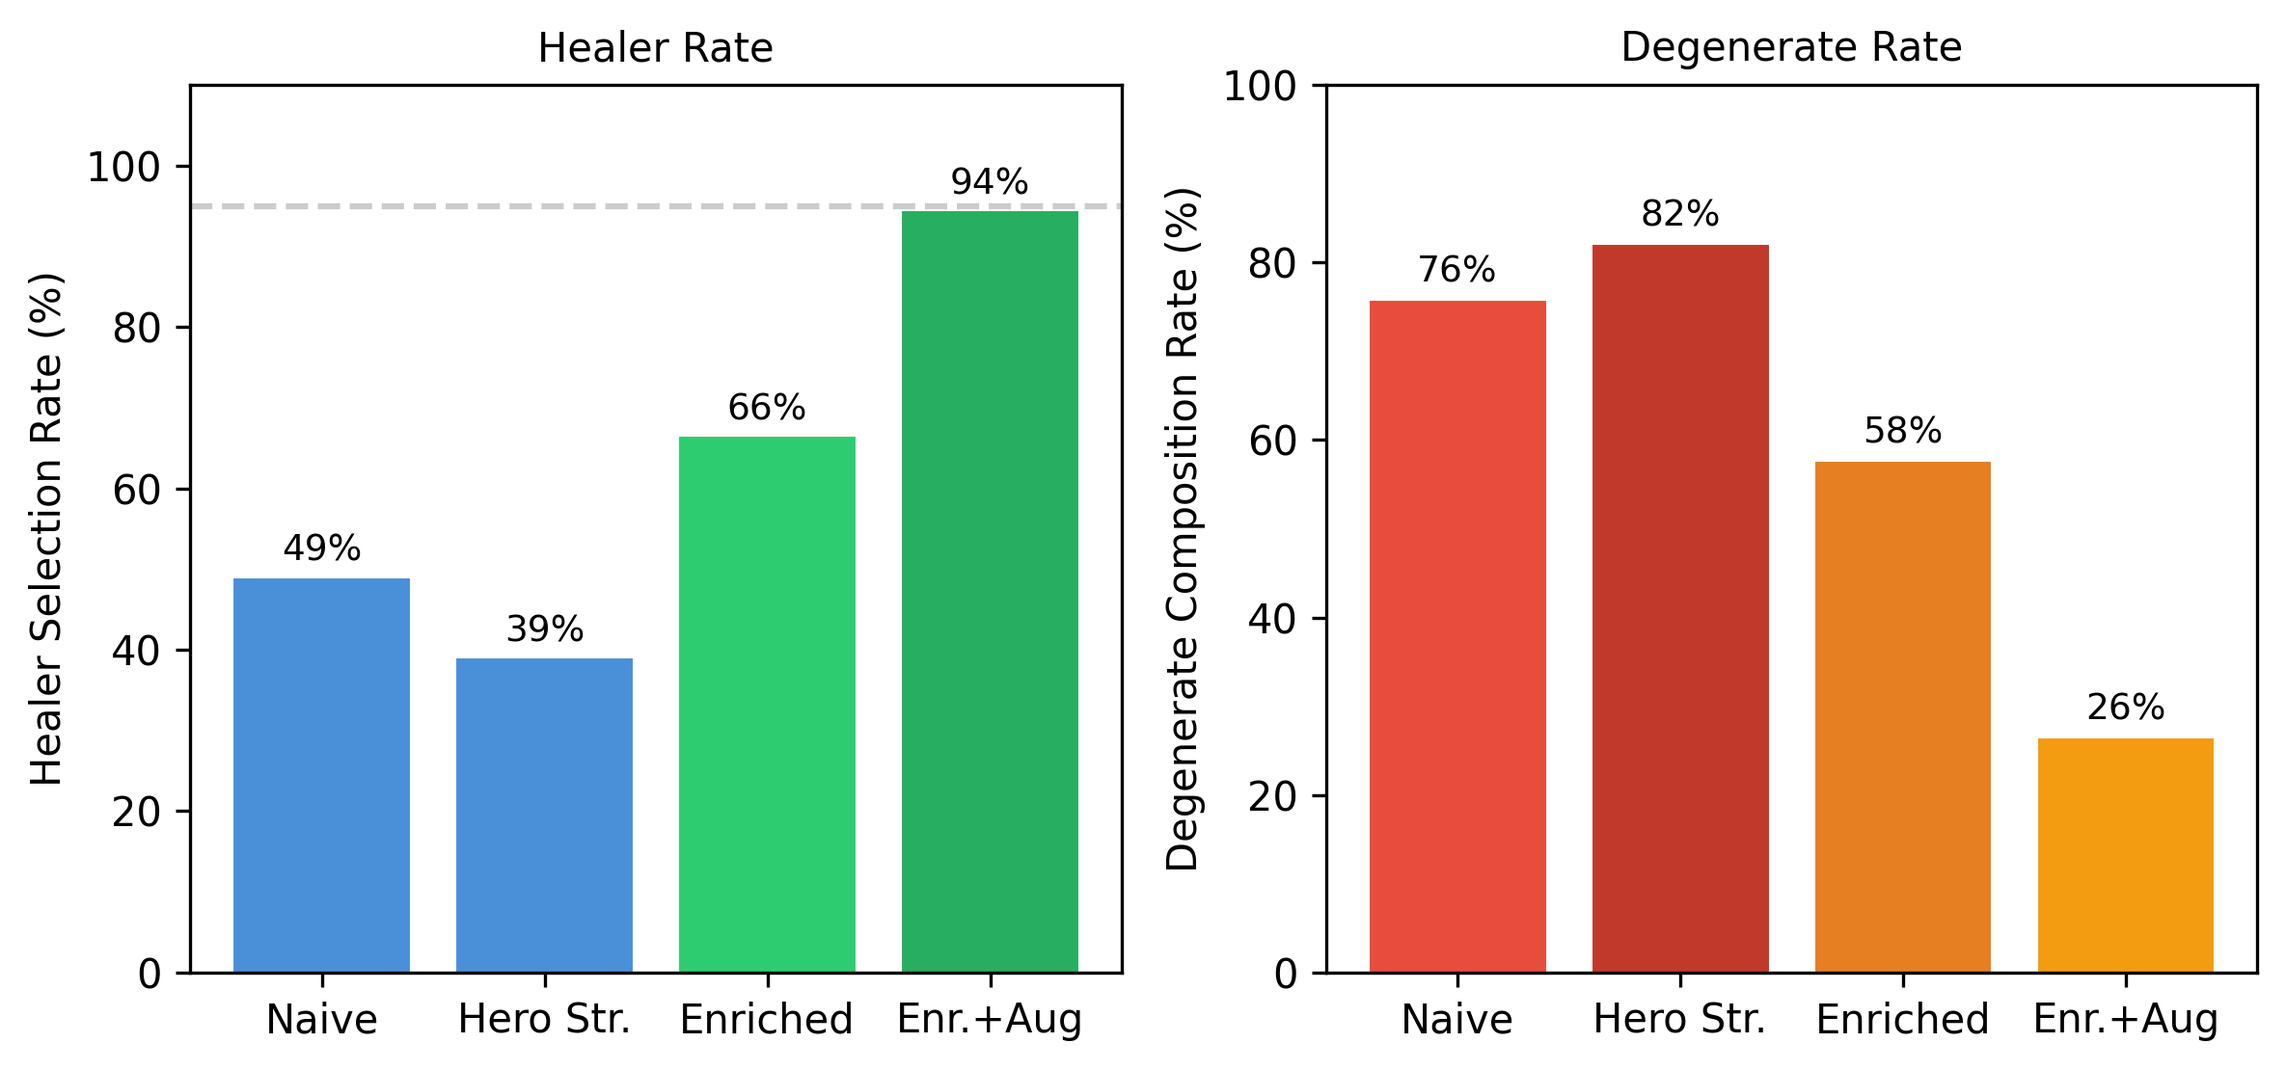
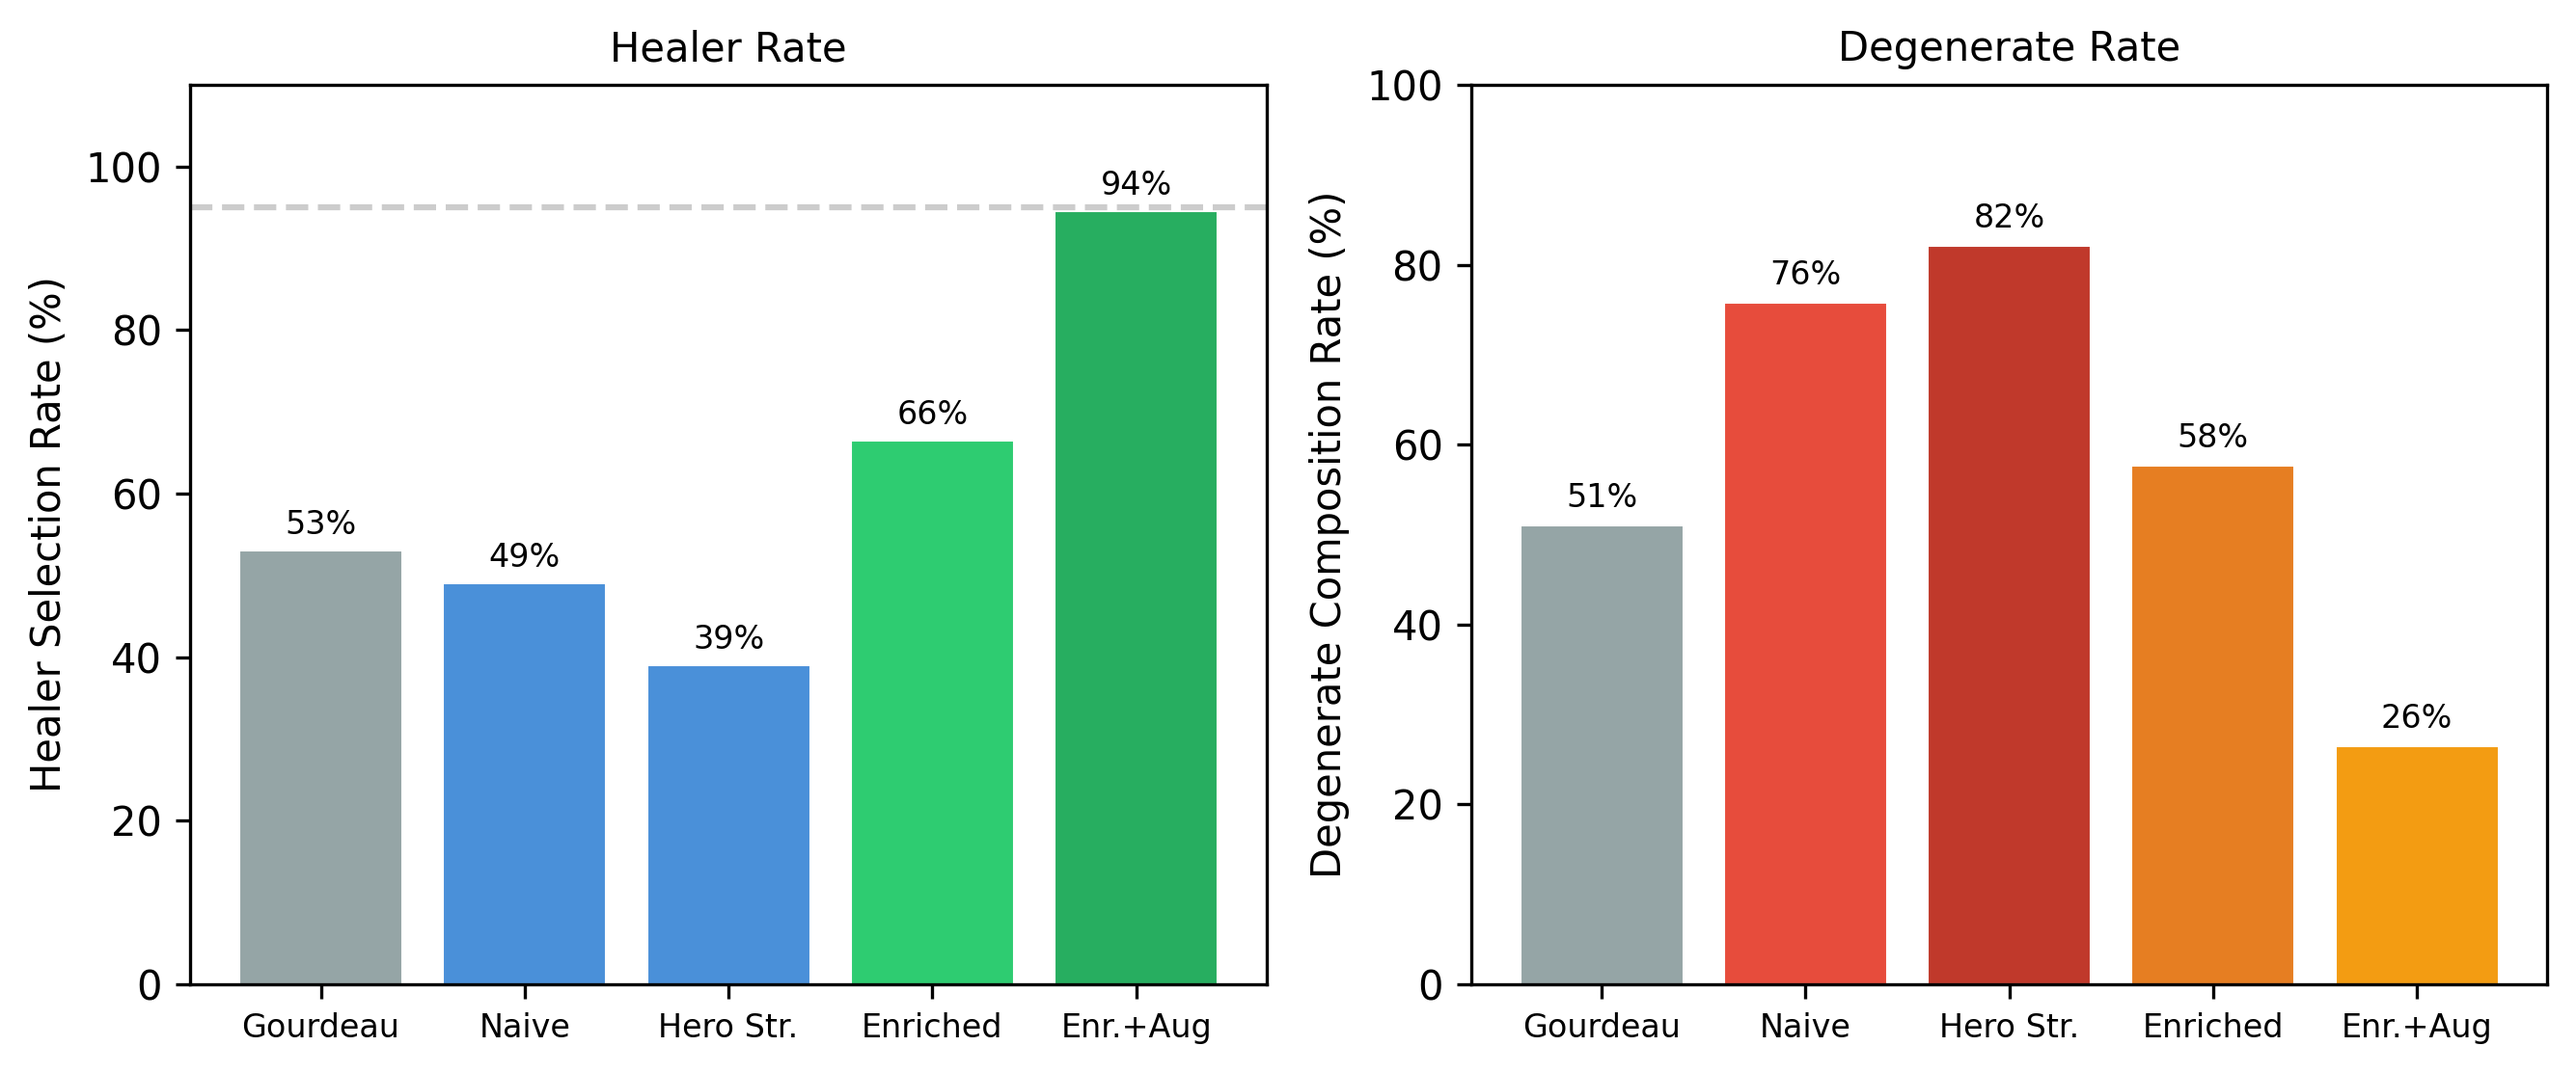
Add Gourdeau baseline to both papers with full benchmark
Reimplemented Gourdeau & Archambault's Siamese WP estimator (994K params,
multiplicative map conditioning) in PyTorch. Trained on our 473K replays:
55.7% accuracy, 5-tank WP 43.3%.

Full greedy draft benchmark (200 drafts, all tiers):
  WP=0.560, WR=75%, Counter=+0.07, Synergy=+0.25
  Healer=53%, Degen=51%, 89 distinct heroes

Added to:
- Paper 1 Table I, independent baseline section, composition quality figure
- Paper 2 Table VIII, independent baseline section, safety-context scatter
- New training script: training/train_gourdeau_baseline.py

diff --git a/training/train_gourdeau_baseline.py b/training/train_gourdeau_baseline.py
@@ -1,0 +1,205 @@
+#!/usr/bin/env python3
+"""
+Reimplementation of Gourdeau & Archambault's HotS draft WP estimator in PyTorch.
+
+Architecture (from https://github.com/HairyBlob/HotS-Drafter):
+  - Siamese shared-weight network: each team processed identically
+  - Multiplicative map conditioning: map embedding * hero embedding at first layer
+  - Shared layers: 90→1024 (heroes) * 14→1024 (maps), then 1024→512→256→128
+  - Classification head: concat both teams (256) → 256→256→256→2
+
+Input: team0 multi-hot (90), team1 multi-hot (90), map one-hot (14)
+Output: P(team0 wins) via softmax over 2 classes
+
+Reference: "Discriminative Neural Network for Hero Selection in Professional
+Heroes of the Storm and Dota 2", IEEE Trans. Games, 2021.
+"""
+import os, sys, time, random
+import numpy as np
+import torch
+import torch.nn as nn
+
+sys.path.insert(0, os.path.dirname(os.path.abspath(__file__)))
+from shared import (NUM_HEROES, NUM_MAPS, HEROES, HERO_TO_IDX, MAPS, MAP_TO_IDX,
+                    load_replay_data, split_data, heroes_to_multi_hot, map_to_one_hot)
+
+SCRIPT_DIR = os.path.dirname(os.path.abspath(__file__))
+
+
+class GourdeauWPModel(nn.Module):
+    """Faithful PyTorch reimplementation of the Gourdeau Siamese WP estimator.
+
+    Key architectural choices from the original:
+    - Absolute value on hero and map weight matrices (lines 63-66 in estimator.py)
+    - Multiplicative conditioning: hero_embed * map_embed (not additive)
+    - Shared weights process each team identically (Siamese)
+    - 4 shared layers → concat → 3 classification layers → 2 outputs
+    """
+    def __init__(self, n_heroes=NUM_HEROES, n_maps=NUM_MAPS):
+        super().__init__()
+        # Shared Siamese layers (process each team identically)
+        self.hero_w = nn.Parameter(torch.empty(n_heroes, 1024))
+        self.map_w = nn.Parameter(torch.empty(n_maps, 1024))
+        nn.init.xavier_uniform_(self.hero_w)
+        nn.init.xavier_uniform_(self.map_w)
+
+        self.shared_b1 = nn.Parameter(torch.zeros(1024))
+        self.shared_fc2 = nn.Linear(1024, 512)
+        self.shared_fc3 = nn.Linear(512, 256)
+        self.shared_fc4 = nn.Linear(256, 128)
+
+        # Classification head (after concatenating both team embeddings)
+        self.cls_fc1 = nn.Linear(256, 256)  # 128*2 = 256 input
+        self.cls_fc2 = nn.Linear(256, 256)
+        self.cls_fc3 = nn.Linear(256, 256)
+        self.cls_out = nn.Linear(256, 2)
+
+        self.dropout = nn.Dropout(0.3)
+
+    def _team_forward(self, team_hot, map_hot):
+        """Process one team through shared Siamese layers."""
+        # Multiplicative map conditioning with absolute value weights
+        hero_embed = torch.matmul(team_hot, torch.abs(self.hero_w))
+        map_embed = torch.matmul(map_hot, torch.abs(self.map_w))
+        x = hero_embed * map_embed + self.shared_b1
+        x = torch.relu(x)
+        x = self.dropout(x)
+
+        x = torch.relu(self.shared_fc2(x))
+        x = self.dropout(x)
+        x = torch.relu(self.shared_fc3(x))
+        x = self.dropout(x)
+        x = torch.relu(self.shared_fc4(x))
+        x = self.dropout(x)
+        return x  # (batch, 128)
+
+    def forward(self, team0, team1, map_oh):
+        """Forward pass.
+
+        Args:
+            team0: (batch, n_heroes) multi-hot
+            team1: (batch, n_heroes) multi-hot
+            map_oh: (batch, n_maps) one-hot
+        Returns:
+            logits: (batch, 2) — class 0 = team0 wins, class 1 = team1 wins
+        """
+        t0_embed = self._team_forward(team0, map_oh)
+        t1_embed = self._team_forward(team1, map_oh)
+
+        x = torch.cat([t0_embed, t1_embed], dim=1)  # (batch, 256)
+        x = torch.relu(self.cls_fc1(x))
+        x = self.dropout(x)
+        x = torch.relu(self.cls_fc2(x))
+        x = self.dropout(x)
+        x = torch.relu(self.cls_fc3(x))
+        x = self.dropout(x)
+        logits = self.cls_out(x)
+        return logits
+
+    def predict_wp(self, team0, team1, map_oh):
+        """Return P(team0 wins) as a scalar per sample."""
+        logits = self.forward(team0, team1, map_oh)
+        probs = torch.softmax(logits, dim=1)
+        return probs[:, 0]  # P(team0 wins)
+
+
+def train():
+    device = torch.device('cuda' if torch.cuda.is_available() else 'cpu')
+    print(f"Device: {device}")
+
+    # Load data
+    data = load_replay_data()
+    train_data, test_data = split_data(data, test_frac=0.15)
+    print(f"Train: {len(train_data)}, Test: {len(test_data)}")
+
+    # Prepare tensors
+    def make_tensors(samples):
+        t0_list, t1_list, map_list, label_list = [], [], [], []
+        for d in samples:
+            t0h = d.get('team0_heroes', [])
+            t1h = d.get('team1_heroes', [])
+            if len(t0h) != 5 or len(t1h) != 5:
+                continue
+            t0_list.append(heroes_to_multi_hot(t0h))
+            t1_list.append(heroes_to_multi_hot(t1h))
+            map_list.append(map_to_one_hot(d['game_map']))
+            label_list.append(0 if d['winner'] == 0 else 1)
+            # Team-swap augmentation
+            t0_list.append(heroes_to_multi_hot(t1h))
+            t1_list.append(heroes_to_multi_hot(t0h))
+            map_list.append(map_to_one_hot(d['game_map']))
+            label_list.append(1 if d['winner'] == 0 else 0)
+
+        return (torch.tensor(np.array(t0_list)),
+                torch.tensor(np.array(t1_list)),
+                torch.tensor(np.array(map_list)),
+                torch.tensor(np.array(label_list, dtype=np.int64)))
+
+    print("Preparing tensors...")
+    tr_t0, tr_t1, tr_map, tr_y = make_tensors(train_data)
+    te_t0, te_t1, te_map, te_y = make_tensors(test_data)
+    print(f"  Train samples: {len(tr_y):,}, Test samples: {len(te_y):,}")
+
+    tr_t0, tr_t1, tr_map, tr_y = tr_t0.to(device), tr_t1.to(device), tr_map.to(device), tr_y.to(device)
+    te_t0, te_t1, te_map, te_y = te_t0.to(device), te_t1.to(device), te_map.to(device), te_y.to(device)
+
+    # Train
+    model = GourdeauWPModel().to(device)
+    params = sum(p.numel() for p in model.parameters())
+    print(f"Model parameters: {params:,}")
+
+    optimizer = torch.optim.Adam(model.parameters(), lr=1e-4)
+    criterion = nn.CrossEntropyLoss()
+
+    best_acc = 0
+    best_state = None
+    batch_size = 4096
+    n = len(tr_y)
+
+    for epoch in range(100):
+        model.train()
+        perm = torch.randperm(n, device=device)
+        epoch_loss = 0
+        for i in range(0, n, batch_size):
+            idx = perm[i:i+batch_size]
+            logits = model(tr_t0[idx], tr_t1[idx], tr_map[idx])
+            loss = criterion(logits, tr_y[idx])
+            optimizer.zero_grad()
+            loss.backward()
+            optimizer.step()
+            epoch_loss += loss.item() * len(idx)
+
+        if (epoch + 1) % 5 == 0:
+            model.eval()
+            with torch.no_grad():
+                te_logits = model(te_t0, te_t1, te_map)
+                te_pred = te_logits.argmax(dim=1)
+                te_acc = (te_pred == te_y).float().mean().item() * 100
+            if te_acc > best_acc:
+                best_acc = te_acc
+                best_state = {k: v.cpu().clone() for k, v in model.state_dict().items()}
+            print(f"  Epoch {epoch+1}: loss={epoch_loss/n:.4f}, test_acc={te_acc:.2f}%, best={best_acc:.2f}%")
+
+    model.load_state_dict(best_state)
+    save_path = os.path.join(SCRIPT_DIR, 'gourdeau_wp.pt')
+    torch.save(model.cpu().state_dict(), save_path)
+    print(f"\nSaved to {save_path}")
+    print(f"Best test accuracy: {best_acc:.2f}%")
+    print(f"Parameters: {params:,}")
+
+    # Quick sanity: evaluate 5-tank comp
+    model.eval().to(device)
+    tanks = ['Muradin', 'Johanna', 'Diablo', 'E.T.C.', "Mal'Ganis"]
+    standard = ['Muradin', 'Brightwing', 'Valla', 'Sonya', 'Jaina']
+
+    t0 = torch.tensor(heroes_to_multi_hot(tanks)).unsqueeze(0).to(device)
+    t1 = torch.tensor(heroes_to_multi_hot(standard)).unsqueeze(0).to(device)
+    m = torch.tensor(map_to_one_hot('Cursed Hollow')).unsqueeze(0).to(device)
+
+    with torch.no_grad():
+        wp = model.predict_wp(t0, t1, m).item()
+    print(f"\n5-tank vs standard: {wp*100:.1f}% WP (should be low, Gourdeau original was 52.8%)")
+
+
+if __name__ == '__main__':
+    train()

diff --git a/paper/cog2026_aux/draft.tex b/paper/cog2026_aux/draft.tex
@@ -44,6 +44,7 @@ All models train on 473,559 Storm League replays with team-swap augmentation: ev
 \toprule
 Model & Acc. & Dim & Added Features \\
 \midrule
+Gourdeau & 55.7\% & 194 & Siamese, mult. map cond. (no tier, no enriched) \\
 Naive & 56.5\% & 197 & (base: multi-hot + map + tier) \\
 Hero Str. & 57.0\% & 209 & Per-hero WR, team avg WR \\
 Enriched & 57.9\% & 283 & Role counts, pairwise stats, composition WR, meta \\
@@ -78,7 +79,7 @@ Enriched & 0.601 & 0.580 & \textbf{0.644} \\
 \end{tabular}
 \end{table}
 
-Table~\ref{tab:crosseval} shows diagonal dominance: each strategy scores highest on its own evaluator, confirming that greedy search optimizes for the specific model's value landscape. Each policy finds states its own evaluator rates highly but that other evaluators do not. The enriched drafter scores \textit{lowest} on both simpler evaluators (0.601, 0.580): it sacrifices 6.9pp of win probability as scored by the naive evaluator (0.670 $\to$ 0.601) to gain compositional quality, a trade-off that no single-model evaluation metric can detect.
+Table~\ref{tab:crosseval} shows diagonal dominance: each strategy scores highest on its own evaluator, confirming that greedy search optimizes for the specific model's value landscape. Each policy finds states its own evaluator rates highly but that other evaluators do not. The enriched drafter scores \textit{lowest} on both simpler evaluators (0.601, 0.580): it sacrifices 6.9pp of win probability as scored by the naive evaluator (0.670 $\to$ 0.601) to gain compositional quality, a trade-off that no single-model evaluation metric can detect. The Gourdeau baseline (Table~\ref{tab:models}) exhibits even more severe OOD overestimation: it scores 5-tank compositions at 43.3\% WP, improved from their published 52.8\% due to our larger training set (473K vs.\ their original replays), but still rating degenerate compositions as nearly competitive.
 
 \subsection{Composition Quality}
 
@@ -157,7 +158,7 @@ Our enriched features function as pessimistic value correction analogous to CQL~
 
 \section{Related Work}
 
-To verify that OOD overestimation is not specific to our implementation, we reproduced the win probability estimator from Gourdeau's open-source HotS drafter,\footnote{\url{https://github.com/HairyBlob/HotS-Drafter}, the codebase underlying~\cite{gourdeau2021discriminative}.} a shared-weight feedforward network with multiplicative map conditioning using only multi-hot hero identity inputs. This baseline (55.3\% accuracy, comparable to but slightly below our naive model due to a shallower classification head; 13/21 sanity tests) scored 5-tank compositions at 52.8\% WP (rating them as \textit{favored}), compared to our naive model's 44.6\% and the enriched model's 17.2\%. The pathology is a property of the multi-hot feature representation, not our specific model.
+To verify that OOD overestimation is not specific to our implementation, we reproduced the win probability estimator from Gourdeau's open-source HotS drafter,\footnote{\url{https://github.com/HairyBlob/HotS-Drafter}, the codebase underlying~\cite{gourdeau2021discriminative}.} a Siamese shared-weight network (994K parameters) with multiplicative map conditioning using only multi-hot hero identity inputs (no tier, no enriched features). Our reimplementation achieves 55.7\% accuracy on our 473K-replay dataset, close to their published 55.3\%. With more training data, the 5-tank WP drops from their original 52.8\% to 43.3\%, but the OOD pathology persists: the model still rates a team of five tanks as only mildly disadvantaged rather than catastrophically flawed, compared to our naive model's 44.6\% and the enriched model's 17.2\%. The pathology is a property of the multi-hot feature representation, not our specific model.
 
 Chen et al.~\cite{chen2018drafting} proposed MCTS-based drafting for Dota~2 using a win predictor as the value function but did not examine how value function features affect policy quality, the gap our work addresses. Gourdeau and Archambault~\cite{gourdeau2021discriminative} trained discriminative neural networks for hero selection in professional HotS and Dota~2. Summerville et al.~\cite{summerville2016draft} modeled professional HotS pick sequences as behavioral cloning. The sensitivity of planning to value function design has been studied in game-playing~\cite{silver2016mastering} and robotics~\cite{kalashnikov2018qtopt}; we provide a controlled example where near-identical accuracy yields 90\%+ decision disagreement.
 

diff --git a/paper/cql_followup/draft.tex b/paper/cql_followup/draft.tex
@@ -171,7 +171,7 @@ Among the 50 drafts with the largest naive-vs-enriched evaluation gap, 41/50 (82
 
 \subsection{Independent Baseline}
 
-To verify that OOD overestimation is not specific to our implementation, we reproduce the win probability estimator from Gourdeau's open-source HotS drafter,\footnote{\url{https://github.com/HairyBlob/HotS-Drafter}, the codebase underlying~\cite{gourdeau2021discriminative}.} a shared-weight feedforward network with multiplicative map conditioning using only multi-hot inputs. This baseline (55.3\% accuracy, 13/21 sanity tests) scored 5-tank compositions at 52.8\% WP (rating them as favored), compared to our naive model's 44.6\% and the enriched model's 17.2\%.
+To verify that OOD overestimation is not specific to our implementation, we reproduce the win probability estimator from Gourdeau's open-source HotS drafter,\footnote{\url{https://github.com/HairyBlob/HotS-Drafter}, the codebase underlying~\cite{gourdeau2021discriminative}.} a Siamese shared-weight network (994K parameters) with multiplicative map conditioning using only multi-hot inputs (no tier, no enriched features). Our reimplementation achieves 55.7\% accuracy on our 473K-replay dataset, close to their published 55.3\%. With more training data, the 5-tank WP drops from their original 52.8\% to 43.3\%, but the OOD pathology persists: the model still rates degenerate compositions as nearly competitive, compared to our naive model's 44.6\% and the enriched model's 17.2\%. In greedy draft evaluation (Table~\ref{tab:rich}), the Gourdeau model produces positive counter and synergy deltas (+0.07, +0.25) and high hero diversity (89 distinct heroes), but with only 53\% healer selection and 51\% degenerate rate, confirming that multi-hot features without compositional encoding cannot achieve composition safety.
 
 \section{Closing the Gap}
 
@@ -358,6 +358,7 @@ Table~\ref{tab:cql_basic} shows CQL with naive multi-hot features achieving 9.0\
 \toprule
 Strategy & Heal\% & Deg.\% & Counter & Synergy & Dist. & Ent. & T10\% & GD\% & Aug WP \\
 \midrule
+Gourdeau (greedy) & 53 & 51.0 & $+$.07 & $+$.25 & 89 & 6.05 & 7 & 3 & .560 \\
 GD baseline & 99.5 & 1.0 & $-$.09 & $-$.05 & 40 & 4.24 & 75 & 83 & .522 \\
 CQL .5 (naive) & 95.0 & 14.5 & $-$.06 & $-$.17 & 40 & 4.35 & 73 & 57 & .473 \\
 CQL 1.0 (naive) & 93.5 & 11.0 & $-$.10 & $-$.14 & 44 & 4.42 & 71 & 62 & .504 \\
